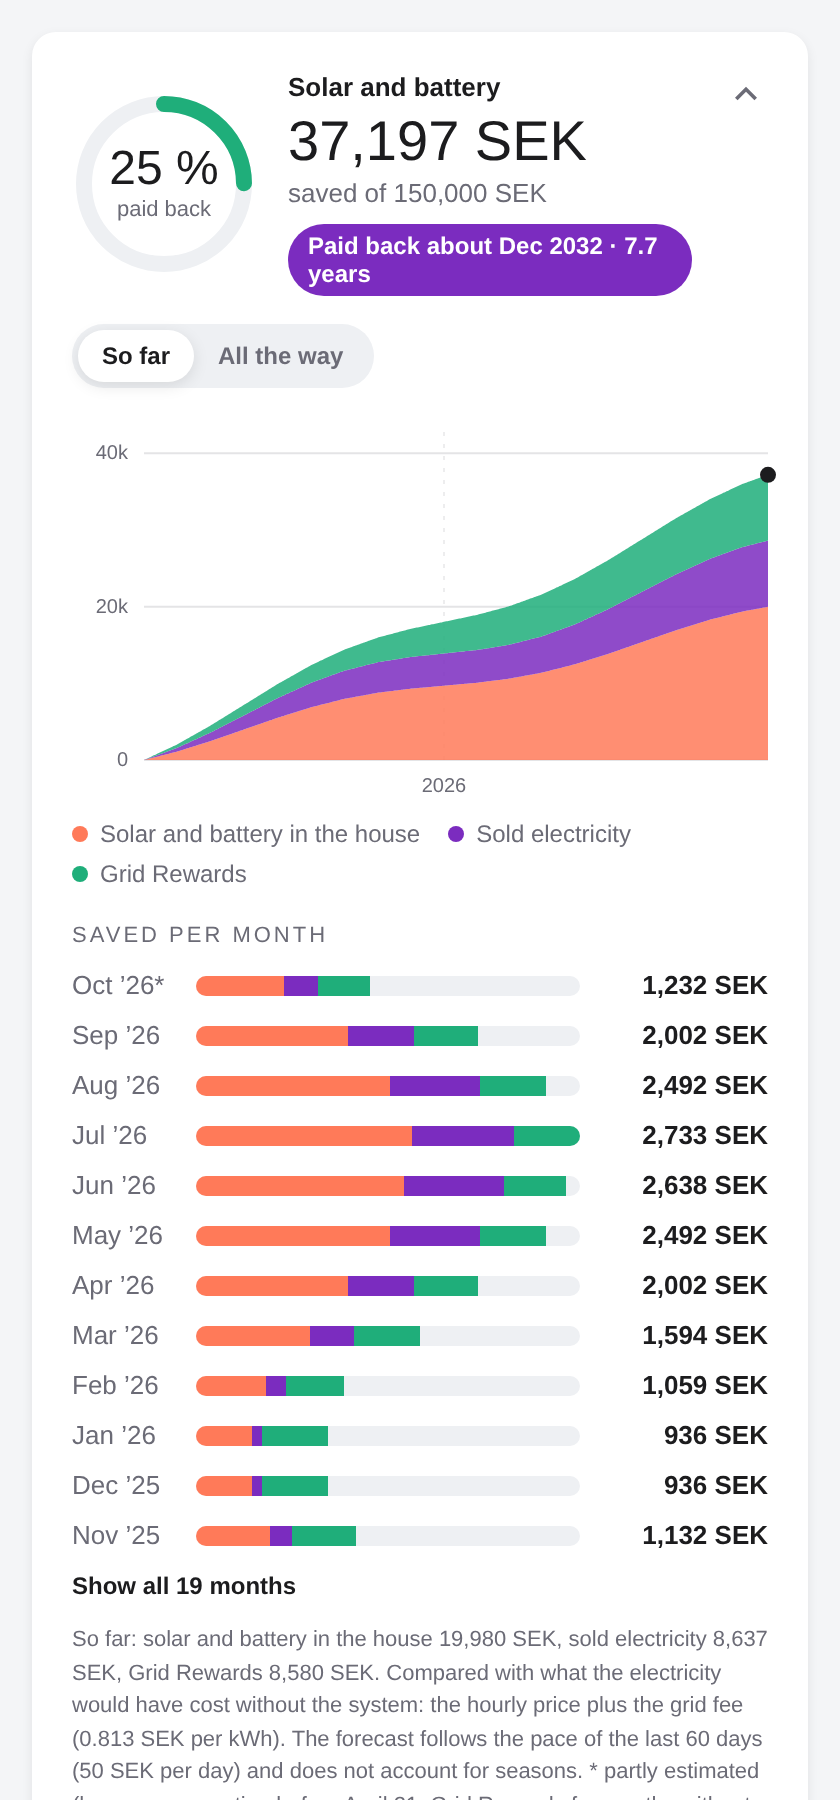
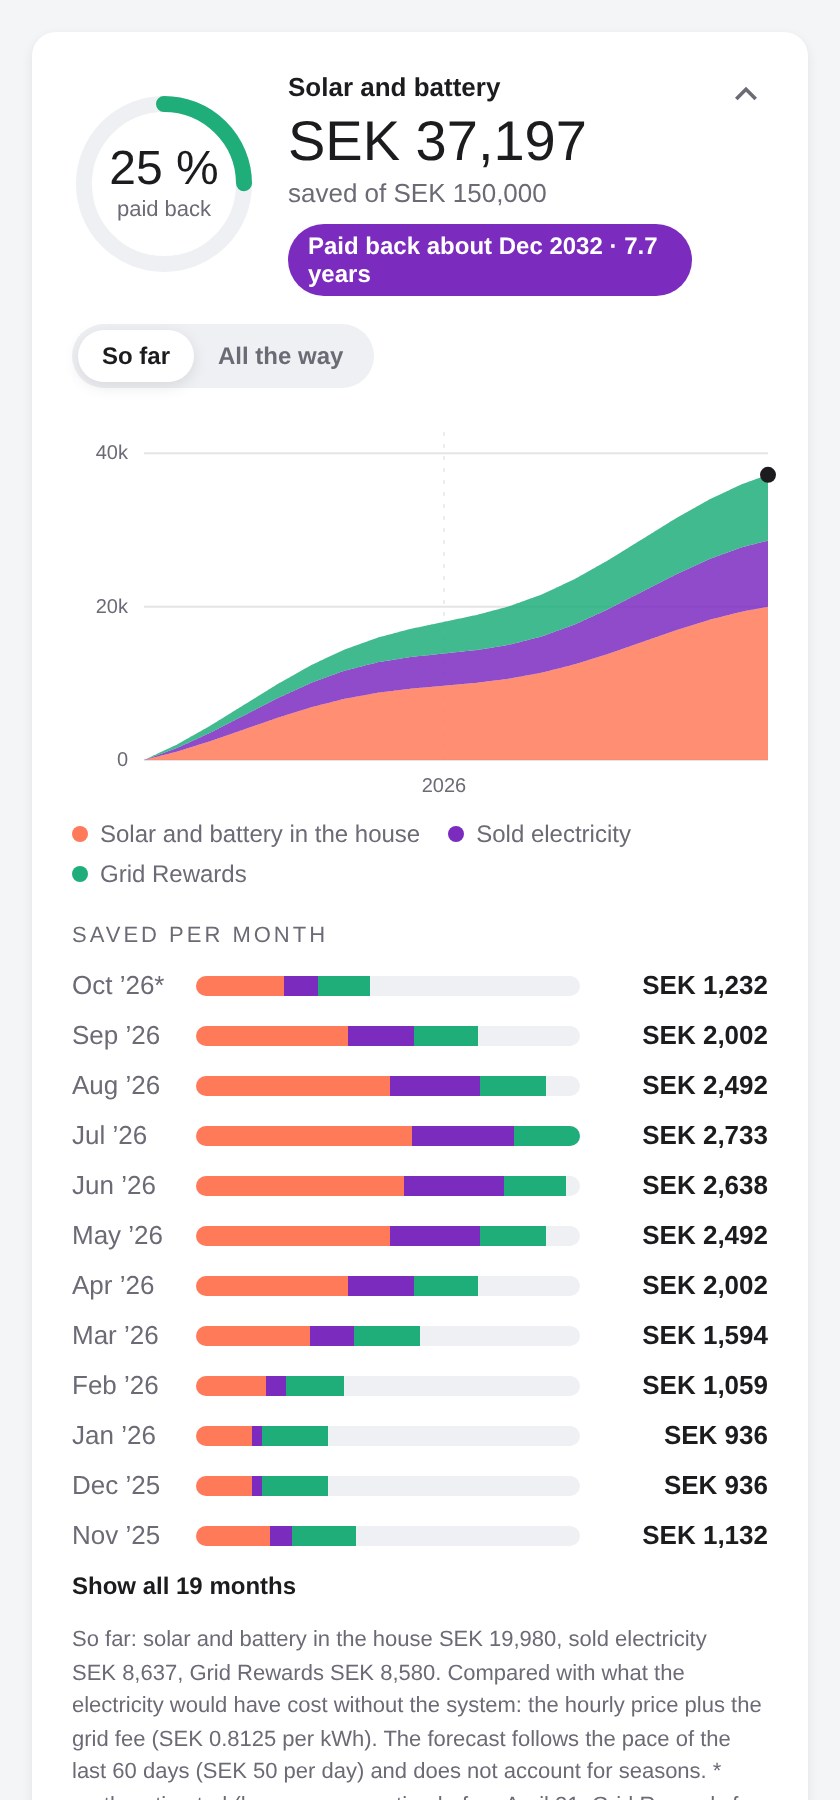
Card: show amounts in the local currency format
ISO currency codes like SEK are now shown as "7 281 kr" in Swedish
instead of "7 281 SEK". Bump version to 0.1.1 so browsers load the new card.

Claude-Session: https://claude.ai/code/session_01FDLSf3dHEEhXPBiCrD1xBs

Changed region(s): [[0.0929, 0.9022, 0.8976, 1.0], [0.7738, 0.5289, 0.9286, 0.8711], [0.3405, 0.0622, 0.7119, 0.1244]]

diff --git a/custom_components/solar_payback/frontend/solar-payback-card.js b/custom_components/solar_payback/frontend/solar-payback-card.js
@@ -69,6 +69,14 @@ class SolarPaybackCard extends HTMLElement {
     const s = this._hass.states[this._c.entity];
     const cur = (s && s.attributes.unit_of_measurement) || '';
     const lang = this._hass.locale?.language || this._hass.language || 'en';
+    // ISO currency codes (SEK, EUR) are shown the local way, e.g. "7 281 kr" or "€7,281".
+    if (/^[A-Z]{3}$/.test(cur)) {
+      try {
+        return Number(v).toLocaleString(lang, {
+          style: 'currency', currency: cur, minimumFractionDigits: 0, maximumFractionDigits: digits,
+        });
+      } catch (e) { /* unknown code, fall through */ }
+    }
     return `${Number(v).toLocaleString(lang, { maximumFractionDigits: digits })} ${cur}`.trim();
   }
 

diff --git a/custom_components/solar_payback/const.py b/custom_components/solar_payback/const.py
@@ -3,7 +3,7 @@
 from __future__ import annotations
 
 DOMAIN = "solar_payback"
-VERSION = "0.1.0"
+VERSION = "0.1.1"
 
 # Investment
 CONF_NAME = "name"
